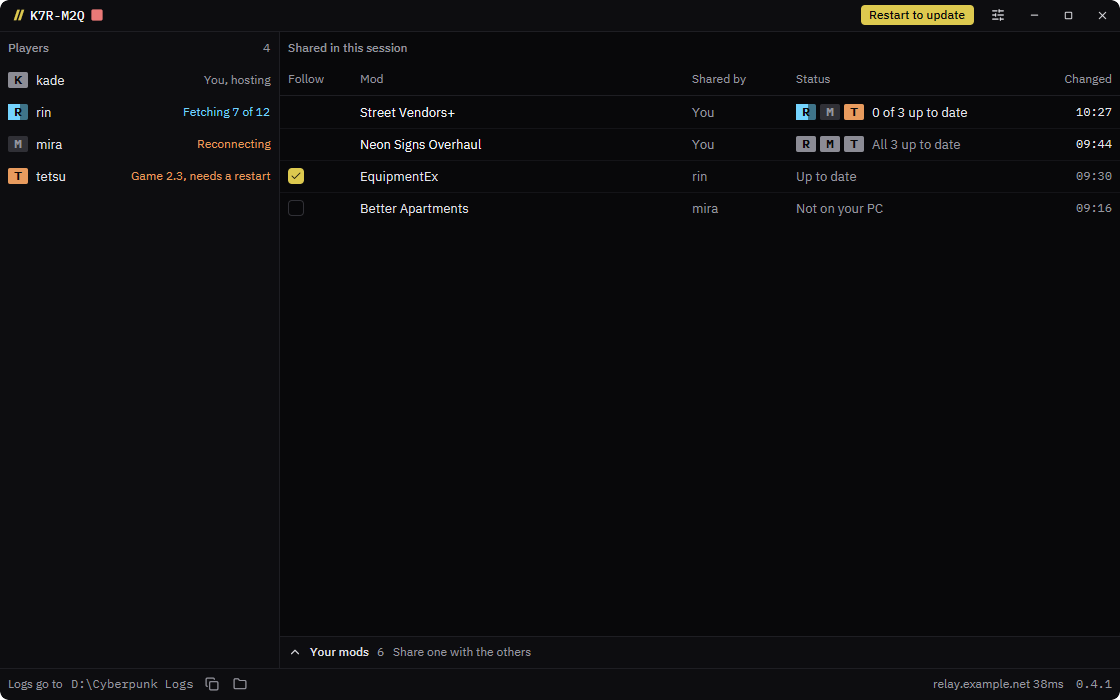
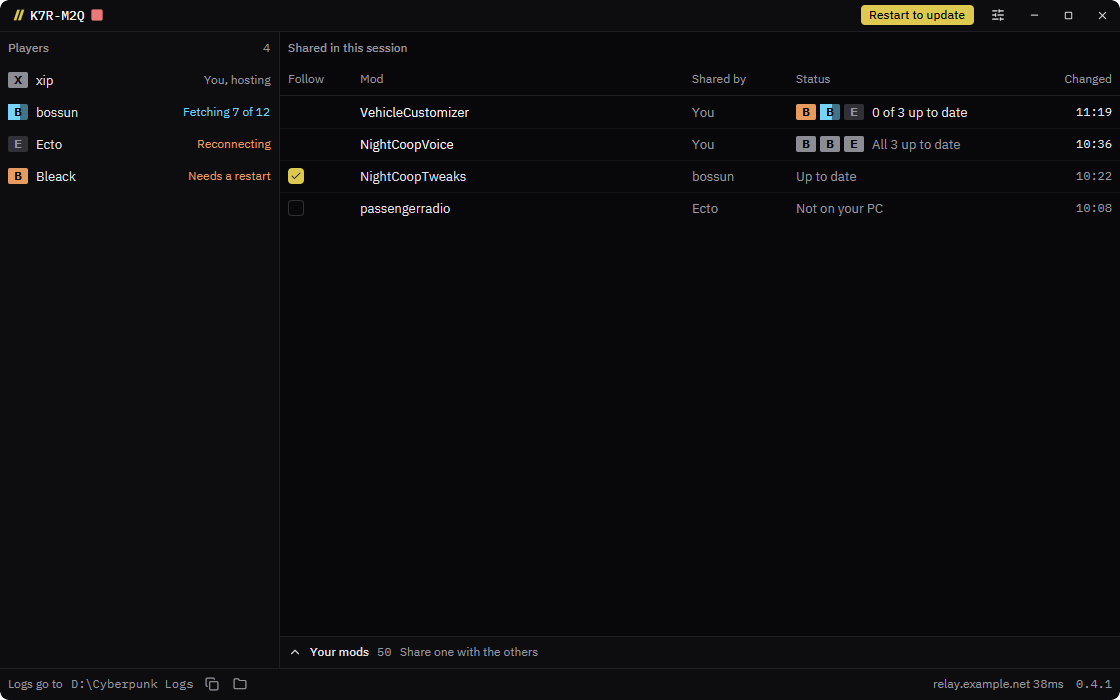
chore: show the group's real players and mods in the demo, and in the README's picture of it
The demo's session is xip hosting Bleack, bossun, and Ecto, all on game 2.5, with xip sharing VehicleCustomizer and NightCoopVoice, bossun NightCoopTweaks, and Ecto passengerradio.
Your mods lists the 50 mods coop-mods found in the host's game folder, so the README's screenshot connects to the two AI answers about Ecto and Bleack under it.

diff --git a/src/core/src/demo.rs b/src/core/src/demo.rs
@@ -209,9 +209,9 @@ fn setup(role: Role) -> Setup {
         logs_folder: PathBuf::from(r"D:\Cyberpunk Logs"),
         game: Some(GameInstall {
             folder: PathBuf::from(r"D:\SteamLibrary\steamapps\common\Cyberpunk 2077"),
-            version: Some(if role == Role::Tester { "2.3" } else { "2.31" }.into()),
+            version: Some("2.5".into()),
         }),
-        steam_name: if role == Role::Tester { "tetsu" } else { "kade" }.into(),
+        steam_name: if role == Role::Tester { "Bleack" } else { "xip" }.into(),
         error: None,
     }
 }
@@ -242,10 +242,10 @@ fn session(role: Role) -> Session {
         sources: None,
     };
     let mut players = vec![
-        player(1, "kade", host, true, "2.31", "Windows 11", 75, 0, PlayerState::Fine),
-        player(2, "rin", false, false, "2.31", "Windows 11", 71, 12_400_000, PlayerState::Fetching { done: 4, total: 12 }),
-        player(3, "mira", false, false, "2.31", "Windows 10", 60, 3_100_000, PlayerState::Reconnecting),
-        player(4, "tetsu", !host, false, "2.3", "SteamOS, Steam Deck", 2, 4_100_000, PlayerState::NeedsRestart),
+        player(1, "xip", host, true, "2.5", "Windows 11", 75, 0, PlayerState::Fine),
+        player(2, "bossun", false, false, "2.5", "Windows 10", 71, 12_400_000, PlayerState::Fetching { done: 4, total: 12 }),
+        player(3, "Ecto", false, false, "2.5", "Windows 11", 60, 3_100_000, PlayerState::Reconnecting),
+        player(4, "Bleack", !host, false, "2.5", "CachyOS", 2, 4_100_000, PlayerState::NeedsRestart),
     ];
     if host {
         players[1].sources = sources(182, 3, 3, 0);
@@ -263,40 +263,40 @@ fn session(role: Role) -> Session {
     let shared = if host {
         vec![
             SharedMod {
-                key: "street vendors+".into(),
-                name: "Street Vendors+".into(),
-                sharer: "kade".into(),
+                key: "vehiclecustomizer".into(),
+                name: "VehicleCustomizer".into(),
+                sharer: "xip".into(),
                 mine: true,
                 follow: Follow::No,
                 has_dll: false,
                 status: ModStatus::Sharing,
                 changed: Some(now - Ago::minutes(2)),
                 followers: vec![
-                    tile("rin", Delivery::Fetching { done: 4, total: 12 }),
-                    tile("mira", Delivery::Paused),
-                    tile("tetsu", Delivery::NeedsRestart),
+                    tile("Bleack", Delivery::NeedsRestart),
+                    tile("bossun", Delivery::Fetching { done: 4, total: 12 }),
+                    tile("Ecto", Delivery::Paused),
                 ],
             },
             SharedMod {
-                key: "neon signs overhaul".into(),
-                name: "Neon Signs Overhaul".into(),
-                sharer: "kade".into(),
+                key: "nightcoopvoice".into(),
+                name: "NightCoopVoice".into(),
+                sharer: "xip".into(),
                 mine: true,
                 follow: Follow::No,
-                has_dll: false,
+                has_dll: true,
                 status: ModStatus::Sharing,
                 changed: Some(now - Ago::minutes(45)),
-                followers: ["rin", "mira", "tetsu"].iter().map(|n| tile(n, Delivery::UpToDate)).collect(),
+                followers: ["Bleack", "bossun", "Ecto"].iter().map(|n| tile(n, Delivery::UpToDate)).collect(),
             },
-            others_mod("equipmentex", "EquipmentEx", "rin", true, Follow::Yes, ModStatus::UpToDate, now - Ago::minutes(59)),
-            others_mod("better apartments", "Better Apartments", "mira", false, Follow::No, ModStatus::NotOnYourPc, now - Ago::minutes(73)),
+            others_mod("nightcooptweaks", "NightCoopTweaks", "bossun", false, Follow::Yes, ModStatus::UpToDate, now - Ago::minutes(59)),
+            others_mod("passengerradio", "passengerradio", "Ecto", false, Follow::No, ModStatus::NotOnYourPc, now - Ago::minutes(73)),
         ]
     } else {
         vec![
-            others_mod("street vendors+", "Street Vendors+", "kade", false, Follow::Yes, ModStatus::NeedsRestart, now - Ago::minutes(2)),
-            others_mod("neon signs overhaul", "Neon Signs Overhaul", "kade", false, Follow::Yes, ModStatus::UpToDate, now - Ago::minutes(45)),
-            others_mod("equipmentex", "EquipmentEx", "rin", true, Follow::No, ModStatus::NotOnYourPc, now - Ago::minutes(59)),
-            others_mod("better apartments", "Better Apartments", "mira", false, Follow::No, ModStatus::NotOnYourPc, now - Ago::minutes(73)),
+            others_mod("vehiclecustomizer", "VehicleCustomizer", "xip", false, Follow::Yes, ModStatus::NeedsRestart, now - Ago::minutes(2)),
+            others_mod("nightcoopvoice", "NightCoopVoice", "xip", true, Follow::Yes, ModStatus::UpToDate, now - Ago::minutes(45)),
+            others_mod("nightcooptweaks", "NightCoopTweaks", "bossun", false, Follow::No, ModStatus::NotOnYourPc, now - Ago::minutes(59)),
+            others_mod("passengerradio", "passengerradio", "Ecto", false, Follow::No, ModStatus::NotOnYourPc, now - Ago::minutes(73)),
         ]
     };
 
@@ -308,13 +308,59 @@ fn session(role: Role) -> Session {
         shared,
         loose_file: loose.map(Into::into),
     };
+    // The host's real game folder as coop-mods listed it on 2026-11-14, so the README's picture of
+    // the demo shows the group's own session.
     let my_mods = vec![
-        my_mod("Street Vendors+", &[Place::Archive, Place::Redscript, Place::TweakXl], 1_200_000, host, None),
-        my_mod("Neon Signs Overhaul", &[Place::Archive], 212_000_000, host, None),
-        my_mod("ArchiveXL", &[Place::Red4ext, Place::Archive], 3_800_000, false, None),
-        my_mod("Codeware", &[Place::Red4ext], 2_100_000, false, None),
-        my_mod("Photo Mode Unlocker", &[Place::Cet], 96_000, false, None),
-        my_mod("Virtual Atelier", &[Place::Redscript], 640_000, false, Some("archive/pc/mod/VirtualAtelier.archive")),
+        my_mod("ArchiveXL", &[Place::Red4ext], 3_569_547, false, None),
+        my_mod("audioware", &[Place::Red4ext, Place::Redscript], 3_839_303, false, None),
+        my_mod("BlurBegone", &[Place::Red4ext], 5_318_843, false, Some("archive/pc/mod/###-BlurBegone-OpticalCamo.archive")),
+        my_mod("BrowserExtension", &[Place::Redscript], 27_988, false, None),
+        my_mod("CET Window Manager", &[Place::Red4ext], 97_280, false, None),
+        my_mod("Codeware", &[Place::Red4ext], 32_944_502, false, None),
+        my_mod("cornmilf", &[Place::TweakXl], 12_024, false, Some("archive/pc/mod/CORNMILF_Rolls_Royce_Wraith.archive")),
+        my_mod("CrystalCoatContinuity", &[Place::Redscript], 6_531, false, None),
+        my_mod("debug_draw", &[Place::Red4ext], 1_144_016, false, Some("archive/pc/mod/debug_draw_shaders.archive")),
+        my_mod("delamain_combat_mode", &[Place::Redscript, Place::TweakXl], 6_362, false, Some("archive/pc/mod/delamain_combat_mode.archive")),
+        my_mod("EnemyMultiplierRS", &[Place::Redscript], 35_491, false, None),
+        my_mod("EnhancedVehicleCamera", &[Place::Cet], 67_923, false, None),
+        my_mod("EquipmentEx", &[Place::Redscript], 259_870, false, Some("archive/pc/mod/EquipmentEx.archive")),
+        my_mod("ExpandedDualWielding", &[Place::Cet, Place::Redscript], 242_152, false, None),
+        my_mod("ForbiddenVehicleMovementNoMore", &[Place::Redscript], 1_168, false, None),
+        my_mod("GRO Hardcore22 Compat v3.0 (PL)", &[Place::TweakXl], 351_094, false, None),
+        my_mod("Headset", &[Place::Cet, Place::Red4ext, Place::Archive], 577_966, false, None),
+        my_mod("input_loader", &[Place::Red4ext], 1_629_219, false, None),
+        my_mod("kart", &[Place::TweakXl], 11_898, false, Some("archive/pc/mod/kart.archive")),
+        my_mod("LUTSwitcher", &[Place::Cet, Place::Redscript, Place::TweakXl], 230_253, false, Some("archive/pc/mod/LUTSwitcher-Addon-Nova.archive")),
+        my_mod("Midas – Dual Wield Penalty", &[Place::Cet], 276, false, None),
+        my_mod("mod_settings", &[Place::Red4ext], 1_244_050, false, None),
+        my_mod("nativeSettings", &[Place::Cet], 80_214, false, None),
+        my_mod("NightCoop", &[Place::Red4ext], 1_684_282_729, false, None),
+        my_mod("NightCoopFlight", &[Place::Redscript], 34_020, false, None),
+        my_mod("NightCoopPhotoHairClock", &[Place::Cet], 0, false, None),
+        my_mod("NightCoopTweaks", &[Place::Cet], 141_709, false, None),
+        my_mod("NightCoopVoice", &[Place::Cet, Place::Red4ext], 1_451_716, host, None),
+        my_mod("nocarryweight", &[Place::TweakXl], 420, false, None),
+        my_mod("Okrasha", &[Place::TweakXl], 24_757, false, Some("archive/pc/mod/Okrasha_Mini_Cooper_S_1965.archive")),
+        my_mod("passengerradio", &[Place::InputLoader], 376, false, None),
+        my_mod("Ping", &[Place::Redscript], 112_424, false, None),
+        my_mod("protoss", &[Place::TweakXl], 0, false, None),
+        my_mod("raem", &[Place::TweakXl], 43_960, false, None),
+        my_mod("RedData", &[Place::Red4ext, Place::Redscript], 670_218, false, None),
+        my_mod("ReFRACT", &[Place::Red4ext], 10_738_887, false, None),
+        my_mod("Sleeves", &[Place::Redscript], 62_180, false, Some("archive/pc/mod/Sleeves.archive")),
+        my_mod("Sleeves 3309 3.3.3 2026-10-27T06-22Z FKtYKrr2a (V2077)", &[Place::Redscript], 0, false, None),
+        my_mod("TobiiHeadTracking", &[Place::Cet, Place::Red4ext], 226_132, false, None),
+        my_mod("TobiiStackTest", &[Place::Cet], 0, false, None),
+        my_mod("TweakXL", &[Place::Red4ext], 2_125_382, false, None),
+        my_mod("UltraPlus", &[Place::Cet], 1_573, false, None),
+        my_mod("VehicleCustomizer", &[Place::Redscript, Place::TweakXl, Place::Archive], 189_727_140, host, None),
+        my_mod("VehicleCustomizerDev", &[Place::Cet, Place::Redscript, Place::TweakXl, Place::Archive], 1_334_492, false, None),
+        my_mod("VehicleCustomizerStand", &[Place::Cet], 2_719, false, None),
+        my_mod("VirtualCarDealer", &[Place::Redscript], 115_729, false, Some("archive/pc/mod/VirtualCarDealer.archive")),
+        my_mod("VisualHolster", &[Place::Cet], 53_637, false, None),
+        my_mod("VMF", &[Place::Redscript], 718, false, None),
+        my_mod("Window Manager", &[Place::Cet], 69_906, false, None),
+        my_mod("WindowUtils", &[Place::Cet, Place::Red4ext], 1_032_900, false, None),
     ];
 
     Session {
@@ -322,14 +368,14 @@ fn session(role: Role) -> Session {
         code: "K7RM2Q".into(),
         relay: "relay.example.net".into(),
         link: Link::Connected { latency_ms: 38 },
-        host_name: "kade".into(),
+        host_name: "xip".into(),
         players,
         shared,
         my_mods,
         logs: if host {
             LogsLine::Host { folder: PathBuf::from(r"D:\Cyberpunk Logs\2026-11-13 K7R-M2Q") }
         } else {
-            LogsLine::Tester { host: "kade".into(), sending: Sending::CatchingUp { done: 38, total: 96 } }
+            LogsLine::Tester { host: "xip".into(), sending: Sending::CatchingUp { done: 38, total: 96 } }
         },
         problem: None,
     }
